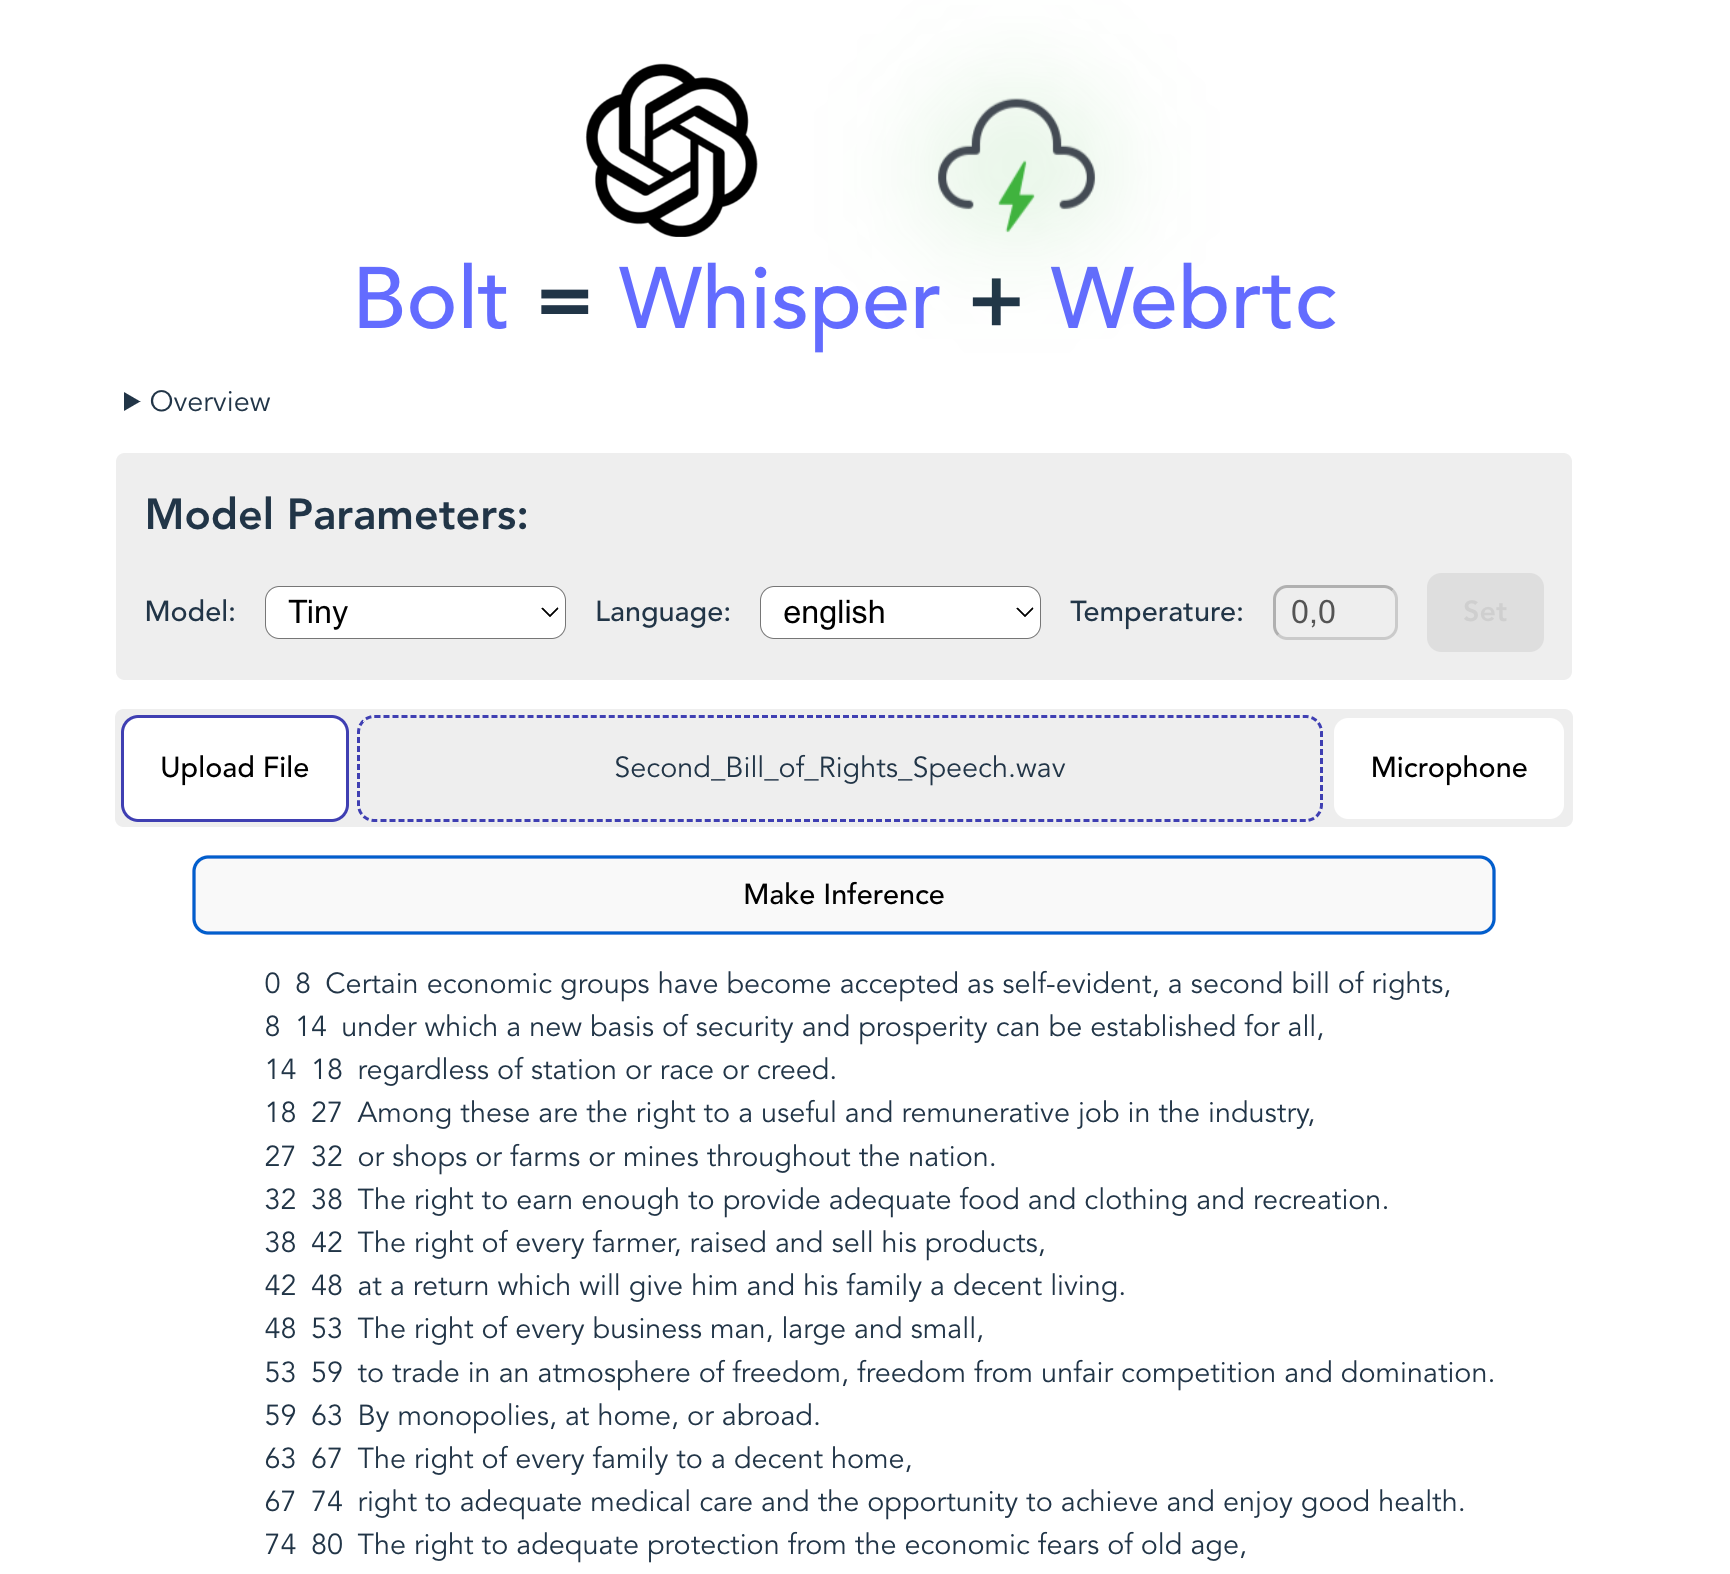
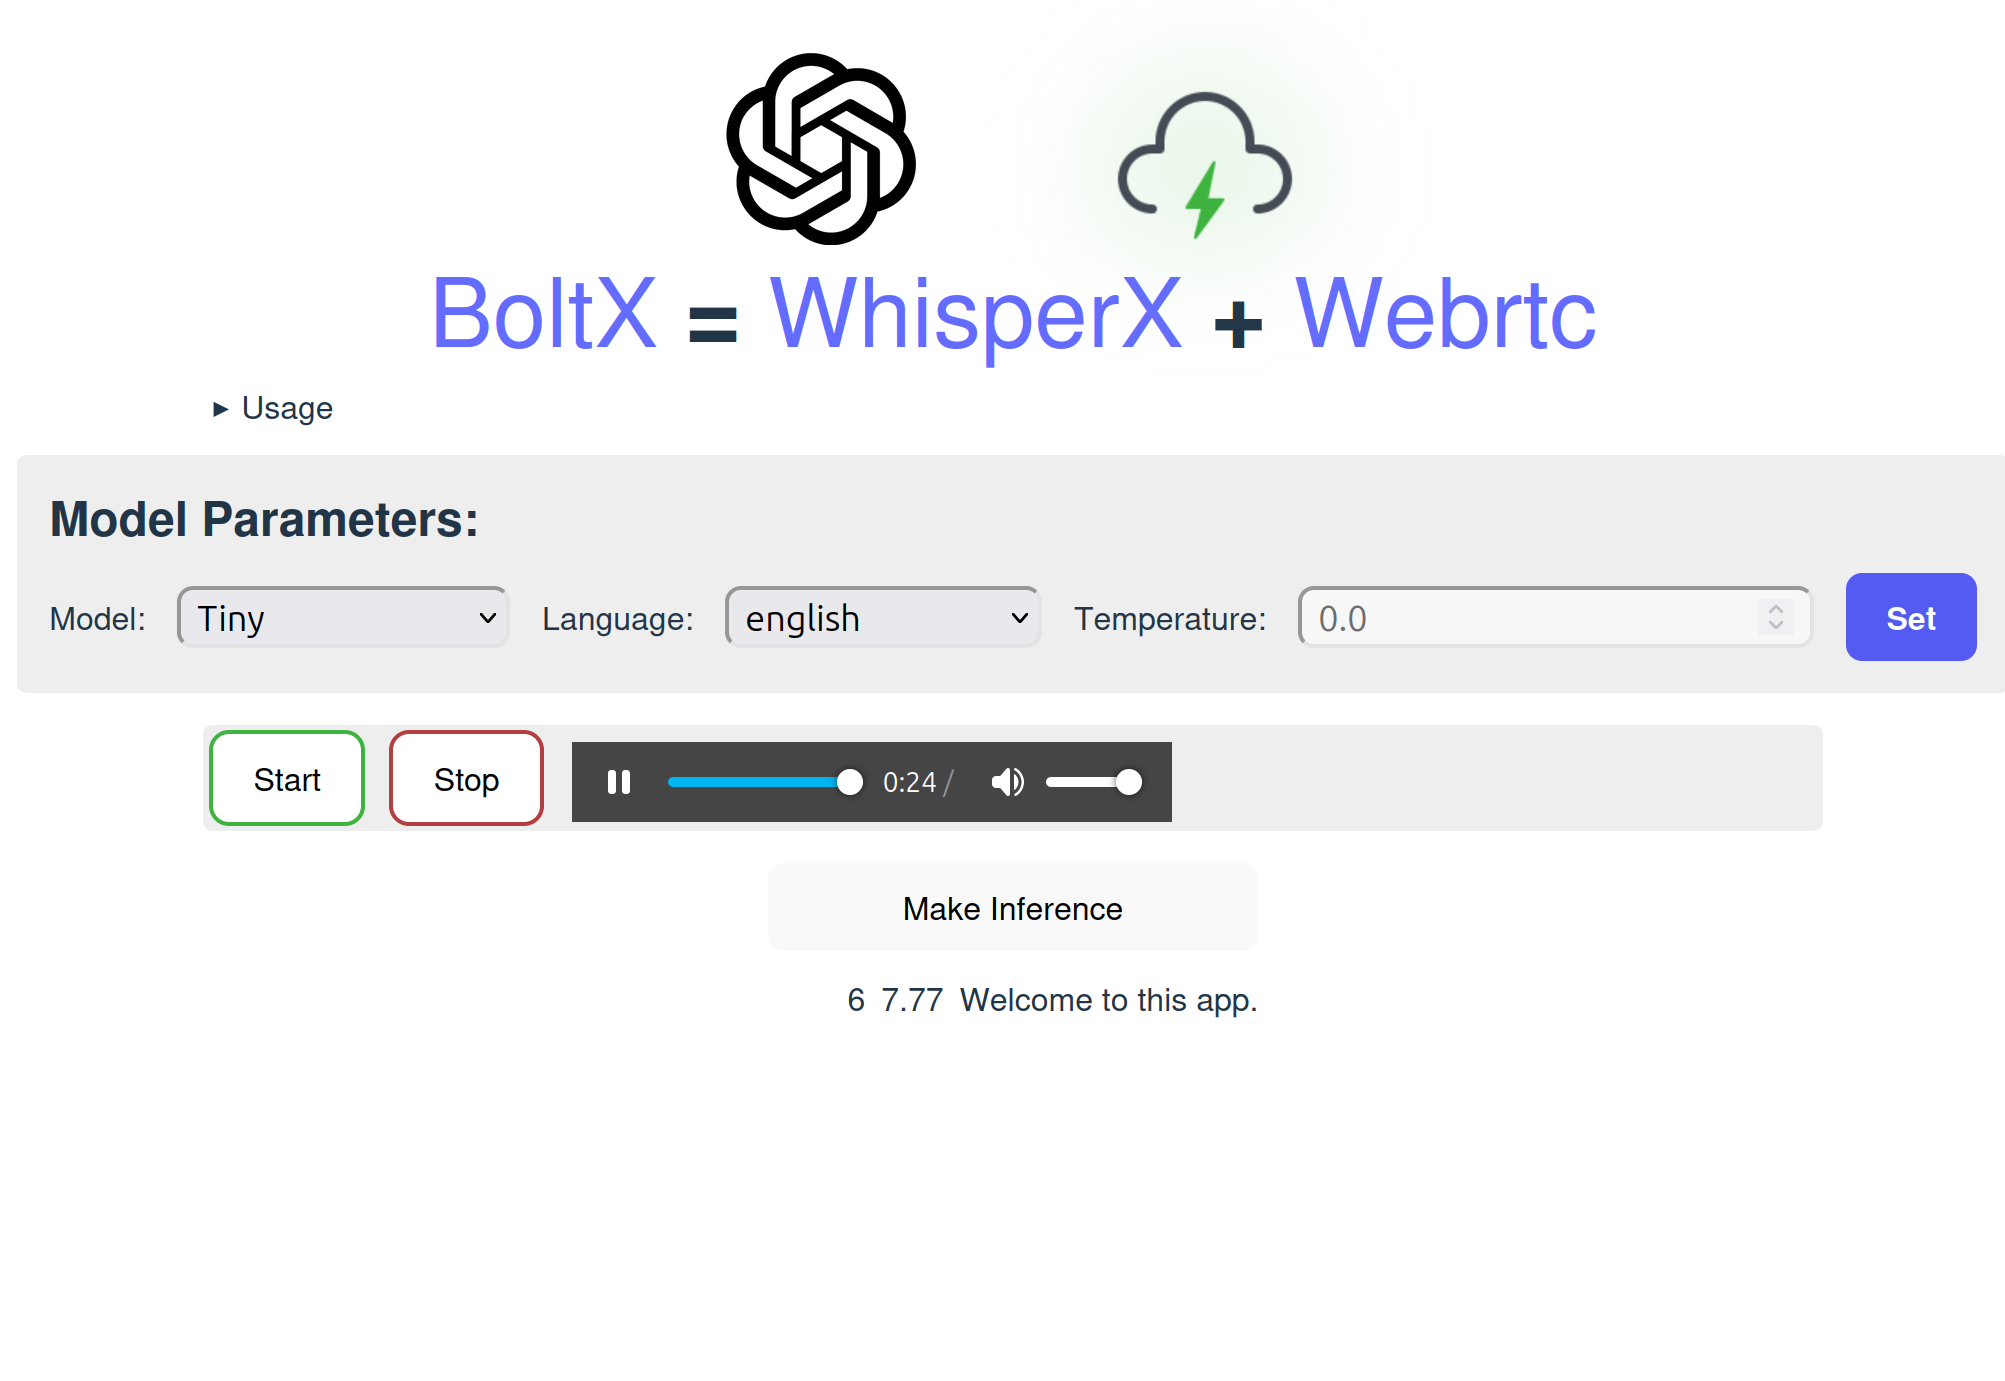
update requirements and installation instructions

diff --git a/frontend/src/App.svelte b/frontend/src/App.svelte
@@ -46,7 +46,7 @@
       This project is an improvement over the original <a href="https://github.com/gslaller/whisper-webrtc">Bolt</a> project. It integrates
       WhisperX and use time stamp and sliding window to achieve real time transcription. To use this app, choose your model parameters and click "Set".
       Open the developer menu, click on start, and wait until "connection state changed to connected" appears in the console. Finally after you are connected click on make 
-      inference to start transcription. 
+      inference to start transcription.  
     </p>
   </details>
 

diff --git a/frontend/src/requests.ts b/frontend/src/requests.ts
@@ -1,4 +1,4 @@
-const URL = "http://minipc.ztybigcat.me:5000"
+const URL = `http://${window.location.hostname}:5000`;
 
 export async function initModel(obj: { user_id: string, model: string, language: string }): Promise<{ token: string }> {
     let response = await fetch(URL + "/init", {

diff --git a/README.md b/README.md
@@ -1,25 +1,10 @@
-# Bolt
+# BoltX
 
-This browser based project let's the whisper model transcribe incoming audio in realtime.
+This browser based project let's the whisperX model transcribe incoming audio in realtime.
 
 > Translation is not possible(maybe added later)
 
 ![Screenshot](assets/screenshot.png)
-
-## Openai's Whisper
-
-[[Blog]](https://openai.com/blog/whisper)
-[[Paper]](https://arxiv.org/abs/2212.04356)
-[[Model card]](model-card.md)
-[[Colab example]](https://colab.research.google.com/github/openai/whisper/blob/master/notebooks/LibriSpeech.ipynb)
-
-Whisper is a general-purpose speech recognition model. It is trained on a large dataset of diverse audio and is also a multi-task model that can perform multilingual speech recognition as well as speech translation and language identification.
-
-## Approach
-
-1. Use the webrtc api to transmit audio data in realtime to the backend.
-2. Extend the model, so it caches the previous outputs, hence mitigating duplicate computation.
-3. Make realtime transcription happen.
 
 ## Setup
 
@@ -29,6 +14,7 @@ Install the requirements.txt with pip. No need for ffmpeg.
 # in backend
 pip3 install -r requirements.txt
 ```
+You may also need to install ffmpeg, rust etc. Follow openAI instructions here https://github.com/openai/whisper#setup.
 
 To start
 
